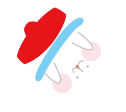
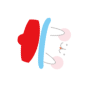
更新しました

Changed region(s): [[0.1224, 0.0645, 0.7959, 0.8387]]

diff --git a/index.html b/index.html
@@ -10,9 +10,11 @@
     <title>ムラタキミコ（スモーニャンド） </title>
 </head>
 
+
 <body>
     <!--space.css-->
 
+    <!--
     <div class="space">
         <p>ニャー、すもう　かっこいい<br>
             ニャー、ちきゅう　ジャックしたいね</p>
@@ -31,6 +33,7 @@
             <span class="star anim"></span>
         </div>
     </div>
+-->
 
     <!--//space.css-->
 
@@ -43,21 +46,29 @@
             </hgroup>
             <p>Portfolio web site</p>
         </div>
-        <img src="images/spaceship_bunyan.png" class="supaceship" alt="宇宙船">
-        <img src="images/scroll_bunyan.png" class="scroll_bunyan" alt="スクロール">
+        <div class="spaceship_img">
+            <img src="images/spaceship_bunyan.png" class="supaceship" alt="宇宙船">
+        </div>
+
+        <div class="space_bunyan_img">
+            <img src="images/Bunyan_space_base.png" alt="スモーネコ宇宙に浮かぶ">
+        </div>
+
+        <div class="scroll_bunyan_img">
+            <img src="images/scroll_bunyan.png" class="scroll_bunyan" alt="スクロール">
+        </div>
+
     </header>
     <!--//header-->
 
-    <!--universe_space-->
+    <!--universe-->
+
     <div>
-        <div>
-            <img src="images/Bunyan_space_base.png" class="space_base" alt="スモーネコ宇宙に浮かぶ">
-        </div>
-        <div>
-            <img src="images/spaceship_kidnap.png" class="spaceship_kidnap" alt="スモーネコ宇宙船にさらわれる">
-        </div>
+        <img src="images/spaceship_kidnap.png" class="spaceship_kidnap" alt="スモーネコ宇宙船にさらわれる">
     </div>
-    <!--//universe_space-->
+    <!--universe-->
+
+
 
     <!--potfolio_web-->
     <div class="potfolio_web_background">
@@ -68,8 +79,83 @@
             </hgroup>
 
             <div class="web_icon">
+                <svg xmlns="http://www.w3.org/2000/svg" width="467.39" height="467.874" viewBox="0 0 467.39 467.874">
+                    <defs>
+                        <style>
+                            .cls-1 {
+                                fill: none;
+                                stroke: #fff;
+                                stroke-miterlimit: 10;
+                                stroke-width: 2px;
+                            }
+
+                            .cls-2 {
+                                fill: #fff;
+                            }
+
+                        </style>
+                    </defs>
+                    <g id="web_icon_constellation_3" transform="translate(-21.726 -19.126)">
+                        <g id="frame" transform="translate(34.55 31.95)">
+                            <path id="path_431" data-name="path 431" class="cls-1" d="M32.506,55.34,59.213,29.126l389.951.526,27.509,22.508-.491,298.864L446.3,378.587H62.022l-30.3-31.642Z" transform="translate(-31.726 -29.126)" />
+                            <path id="path_432" data-name="path 432" class="cls-1" d="M175.552,326.526H269.86v31.465l35.884,32.581H143.25l32.3-32.27Z" transform="translate(-0.232 54.86)" />
+                            <circle id=" circle_9" data-name=" circle 9" class="cls-1" cx="14.106" cy="14.106" r="14.106" transform="translate(208.829 303.714)" />
+                        </g>
+                        <g id="web_star16" transform="translate(202.305 406.924)">
+                            <circle id=" circle_10" data-name=" circle 10" class="cls-2" cx="6.412" cy="6.412" r="6.412" />
+                        </g>
+                        <g id="web_star15" transform="translate(204.228 440.871)">
+                            <circle id=" circle_11" data-name=" circle 11" class="cls-2" cx="4.488" cy="4.488" r="4.488" />
+                        </g>
+                        <g id="web_star14" transform="translate(167.951 467.764)">
+                            <circle id=" circle_12" data-name=" circle 12" class="cls-2" cx="9.618" cy="9.618" r="9.618" />
+                        </g>
+                        <g id="web_star13" transform="translate(333.65 470.97)">
+                            <circle id=" circle_13" data-name=" circle 13" class="cls-2" cx="6.412" cy="6.412" r="6.412" />
+                        </g>
+                        <g id="web_star12" transform="translate(299.948 440.871)">
+                            <circle id=" circle_14" data-name=" circle 14" class="cls-2" cx="4.488" cy="4.488" r="4.488" />
+                        </g>
+                        <g id="web_star11" transform="translate(289.439 400.512)">
+                            <circle id=" circle_15" data-name=" circle 15" class="cls-2" cx="12.824" cy="12.824" r="12.824" />
+                        </g>
+                        <g id="web_star10" transform="translate(236.967 347.719)">
+                            <circle id=" circle_16" data-name=" circle 16" class="cls-2" cx="6.412" cy="6.412" r="6.412" />
+                        </g>
+                        <g id="web_star9" transform="translate(261.973 334.895)">
+                            <circle id=" circle_17" data-name=" circle 17" class="cls-2" cx="9.618" cy="9.618" r="9.618" />
+                        </g>
+                        <g id="web_star8" transform="translate(28.138 54.094)">
+                            <circle id=" circle_18" data-name=" circle 18" class="cls-2" cx="6.412" cy="6.412" r="6.412" transform="translate(0 0)" />
+                        </g>
+                        <g id="web_star_7" data-name="web_star７" transform="translate(21.726 334.666)">
+                            <circle id=" circle_19" data-name=" circle 19" class="cls-2" cx="12.824" cy="12.824" r="12.824" />
+                        </g>
+                        <g id="web_star_6" data-name="web_star６" transform="translate(59.958 374.999)">
+                            <circle id=" circle_20" data-name=" circle 20" class="cls-2" cx="6.412" cy="6.412" r="6.412" />
+                        </g>
+                        <g id="web_star_5" data-name="web_star５" transform="translate(441.392 371.793)">
+                            <circle id=" circle_21" data-name=" circle 21" class="cls-2" cx="9.618" cy="9.618" r="9.618" />
+                        </g>
+                        <g id="web_star_4" data-name="web_star４" transform="translate(473.086 347.49)">
+                            <circle id=" circle_22" data-name=" circle 22" class="cls-2" cx="6.412" cy="6.412" r="6.412" />
+                        </g>
+                        <g id="web_star3" transform="translate(469.88 44.774)">
+                            <circle id=" circle_23" data-name=" circle 23" class="cls-2" cx="9.618" cy="9.618" r="9.618" transform="translate(0 0)" />
+                        </g>
+                        <g id="web_star2" transform="translate(444.598 25.538)">
+                            <circle id=" circle_24" data-name=" circle 24" class="cls-2" cx="6.412" cy="6.412" r="6.412" />
+                        </g>
+                        <g id="web_star1" transform="translate(53.546 19.126)">
+                            <circle id="circle_25" data-name=" circle 25" class="cls-2" cx="12.824" cy="12.824" r="12.824" />
+                        </g>
+                    </g>
+                </svg>
+
+                <!--
                 <img src="images/web_icon_constellation.png" alt="webアイコン">
                 <span class="web_star"></span>
+-->
             </div>
 
         </section>
@@ -104,7 +190,7 @@
             <img src="images/airplane.png" alt="ネコ飛行機">
         </div>
         <div>
-            <img src="images/fusen_1.png" alt="風船ぶにゃん">
+            <img src="images/balloon_bunyan_1.png" alt="風船ぶにゃん">
         </div>
     </div>
     <!--//atmosphere-->

diff --git a/css/style.css b/css/style.css
@@ -1,10 +1,16 @@
 @charset "UTF-8";
 
+:root {
+    --starttime: 0s;
+}
+
+
 * {
     box-sizing: border-box;
     margin: 0;
     padding: 0;
 }
+
 
 /* CSS Document*/
 html {
@@ -71,7 +77,7 @@ h3 {
 .header_title {
     position: absolute;
     height: 250px;
-    top: 50%;
+    top: 30%;
     width: 100%;
     text-align: center;
     margin-top: -125px;
@@ -80,35 +86,90 @@ h3 {
 .header_area h1 {
     width: 100%;
     text-align: center;
+    opacity: 0;
+    animation: scale-in 3s ease calc(var(--starttime) - 0.5S) forwards normal;
+}
+
+@keyframes fade-in {
+    0% {
+        opacity: 0;
+    }
+
+    100% {
+        opacity: 1;
+    }
+}
+
+
+
+@keyframes scale-in {
+    0% {
+        transform: scale(0.2);
+        opacity: 0;
+    }
+
+    100% {
+        transform: scale(1);
+        opacity: 1;
+    }
 }
 
 .header_area h2 {
     width: 100%;
     text-align: center;
+    opacity: 0;
+    animation: fade-in 3s ease calc(var(--starttime) + 1S) forwards normal;
 }
 
 .header_area p {
     width: 100%;
     text-align: center;
+    opacity: 0;
+    animation: fade-in 3s ease calc(var(--starttime) + 1S) forwards normal;
 }
 
-.supaceship {
+
+.spaceship_img {
     position: absolute;
-    top: 70px;
-    left: 910px;
+    top: 10%;
+    right: -22%;
+    animation: UFO 3s ease calc(var(--starttime) + 1S) forwards normal;
 }
 
-.scroll_bunyan {
+@keyframes UFO {
+    0% {
+        top: 10%;
+        right: -22%;
+        margin-right: 0;
+    }
+
+    100% {
+        top: 42%;
+        right: 50%;
+        margin-right: -165px;
+    }
+}
+
+.scroll_bunyan_img {
     position: absolute;
     left: 50%;
     bottom: 10%;
+    opacity: 0;
+    animation: fade-in 3s ease calc(var(--starttime) + 1S) forwards normal;
 }
+
+.space_bunyan_img {
+    position: absolute;
+    top: 42%;
+    right: 50%;
+}
+
+
 /*-----------------------------
  *
- * universe_space
+ * universe
  *
  *----------------------------*/
-
 
 
 
@@ -117,6 +178,7 @@ h3 {
  * potfolio_web
  *
  *----------------------------*/
+
 .potfolio_web_background {
     justify-content: center;
     padding-top: 150px;
@@ -163,6 +225,87 @@ h3 {
     left: 100px;
     top: 50px;
 }
+
+#web_star16 {
+    opacity: 0;
+}
+
+#web_star15 {
+    opacity: 0;
+}
+
+#web_star14 {
+    opacity: 0;
+}
+
+#web_star13 {
+    opacity: 0;
+}
+
+#web_star12 {
+    opacity: 0;
+}
+
+#web_star11 {
+    opacity: 0;
+}
+
+#web_star10 {
+    opacity: 0;
+}
+
+#web_star9 {
+    opacity: 0;
+}
+
+#web_star8 {
+    opacity: 0;
+}
+
+#web_star_7 {
+    opacity: 0;
+}
+
+#web_star_6 {
+    opacity: 0;
+}
+
+#web_star_5 {
+    opacity: 0;
+}
+
+#web_star_4 {
+    opacity: 0;
+}
+
+#web_star3 {
+    opacity: 0;
+}
+
+#web_star2 {
+    opacity: 0;
+}
+
+#circle_25 {
+    opacity: 0;
+    animation: fade-in 1s ease 0 forwards normal;
+}
+
+#frame {
+    opacity: 0;
+}
+
+
+@keyframes fade-in {
+    0% {
+        opacity: 0;
+    }
+
+    100% {
+        opacity: 1;
+    }
+}
+
 
 /*-----//star-----*/
 

diff --git a/css/space.css b/css/space.css
@@ -11,7 +11,7 @@
     -webkit-perspective: 500px;
     -moz-perspective: 500px;
     perspective: 500px;
-    animation: fade-out 0.7s ease 4s 1 forwards normal;
+    animation: fade-out 0.7s ease var(--starttime) 1 forwards normal;
     z-index: 100000;
 }
 
